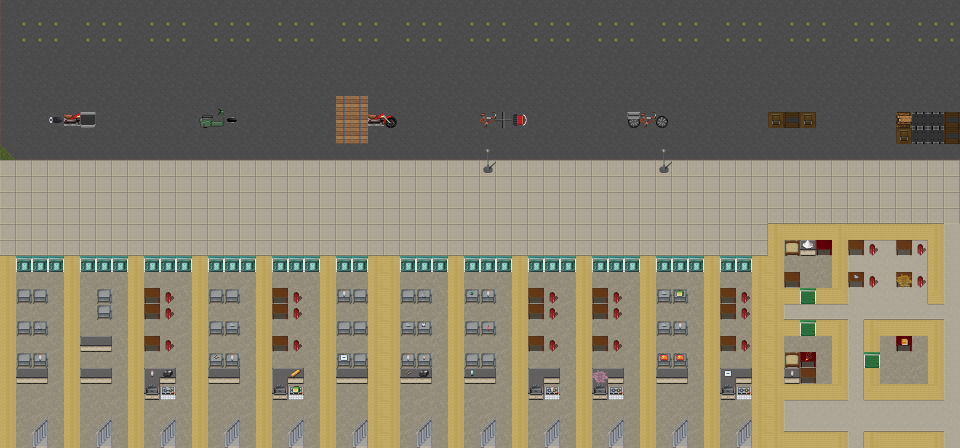
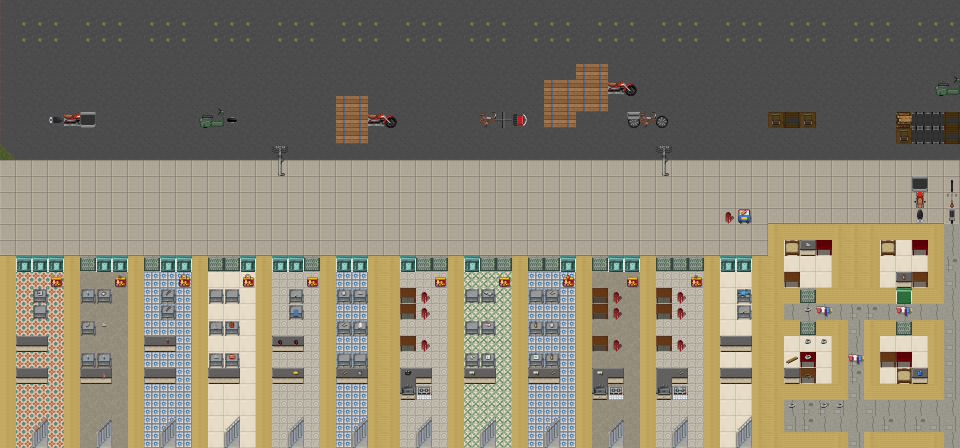
saigon: refresh sprite status, previews and plan after G18-G28
art_manifest.py: a mapgen parameter's name is not an id (it produced a
bogus 'floor' terrain), and ter_str_id / furn_str_id parameter defaults
are now listed as terrain / furniture, so the G21 gạch bông floors are
counted. Regenerated manifest and per-id status (T1: 59 drawn, 49
derived, 134 keep original, 0 to do), drawn preview sheets (icons,
terrain and furniture), scene previews with the canal, and the
summary and plan status columns.

diff --git a/tools/saigon/art_manifest.py b/tools/saigon/art_manifest.py
@@ -101,7 +101,9 @@ class Walker:
                 else:
                     yield from self.mapping_ids( v )
         elif isinstance( value, dict ):
-            for k in ( 'param', 'switch', 'fallback', 'distribution', 'cases', 'default' ):
+            # 'param' names a parameter, it is not an id: the ids come from the parameter's
+            # default (walked with the 'parameters' block) and from 'fallback'
+            for k in ( 'switch', 'fallback', 'distribution', 'cases', 'default' ):
                 if k in value:
                     yield from self.mapping_ids( value[k] if k != 'cases' else list( value[k].values() ) )
 
@@ -134,8 +136,16 @@ class Walker:
                     self.walk_mapgen_object( p[0], tier, 'palette ' + pid )
         params = obj.get( 'parameters' ) or {}
         for pv in params.values():
-            for nid in self.mapping_ids( pv.get( 'default' ) if isinstance( pv, dict ) else None ):
-                self.walk_nested( nid, tier, ref )
+            if not isinstance( pv, dict ):
+                continue
+            kind = pv.get( 'type' )
+            for nid in self.mapping_ids( pv.get( 'default' ) ):
+                if kind == 'ter_str_id':
+                    self.add( 'terrain', nid, tier, ref )
+                elif kind == 'furn_str_id':
+                    self.add( 'furniture', nid, tier, ref )
+                else:
+                    self.walk_nested( nid, tier, ref )
         for pn in obj.get( 'place_nested' ) or []:
             for k in ( 'chunks', 'else_chunks' ):
                 for nid in self.mapping_ids( pn.get( k ) ):

diff --git a/doc/saigon/art/SPRITE_REVISION_SUMMARY.md b/doc/saigon/art/SPRITE_REVISION_SUMMARY.md
@@ -1,7 +1,7 @@
 # Saigon sprite revision summary
 
 This lists the graphics that need Saigon art: what is done, what keeps the original art, and what is left.
-Status as of 2026-10-03, after units G9–G16 (see `doc/saigon/PROGRESS.md`). The per-id list is [`sprite_revision_list.csv`](sprite_revision_list.csv), regenerated by `python3 tools/saigon/art/revision_list.py`.
+Status as of 2026-10-04, after units G9–G28 and the canal (B8f) (see `doc/saigon/PROGRESS.md`). The per-id list is [`sprite_revision_list.csv`](sprite_revision_list.csv), regenerated by `python3 tools/saigon/art/revision_list.py`.
 
 ## Tilesets in use
 
@@ -18,26 +18,26 @@ Status as of 2026-10-03, after units G9–G16 (see `doc/saigon/PROGRESS.md`). Th
 
 | Priority | Category | Tile ids | Saigon art: drawn | Saigon art: derived | Keep original | **To do** |
 |---|---|---:|---:|---:|---:|---:|
-| **T1** on screen everywhere | Terrain (walls, ground, trees, shrubs) | 52 | 13 | 7 | 32 | 0 |
-| **T1** | Furniture and flowers | 22 | 4 | 7 | 11 | 0 |
+| **T1** on screen everywhere | Terrain (walls, floors, paving, gates, canal, trees, shrubs) | 65 | 26 | 7 | 32 | 0 |
+| **T1** | Furniture (street kit, shrines, jars, flowers…) | 36 | 17 | 7 | 12 | 0 |
 | **T1** | Items (starting kit, common tools) | 60 | 9 | 2 | 49 | 0 |
-| **T1** | Monsters | 13 | 0 | 5 | 8 | 0 |
+| **T1** | Monsters and animals | 17 | 0 | 7 | 10 | 0 |
 | **T1** | Vehicle parts | 38 | 7 | 0 | 31 | 0 |
-| **T1** | Map icons | 24 | 0 | 24 | 0 | 0 |
-| **T1 total** | | **209** | **33** | **45** | **131** | **0** |
-| **T2** | Saigon food, drinks, books, gear | 60 | 33 | 8 | 19 | 0 |
-| T3 | Deep dda loot | 2,365 | 0 | 0 | 2,015 | 0 (350 are a base tileset gap, below) |
-| Not in the manifest | Worn clothing on the character (6 Saigon items × male/female) | 12 | 0 | 12 | – | 0 |
+| **T1** | Map icons | 26 | 0 | 26 | 0 | 0 |
+| **T1 total** | | **242** | **59** | **49** | **134** | **0** |
+| **T2** | Saigon food, drinks, books, gear, kitchen, household, clothing | 107 | 75 | 13 | 19 | 0 |
+| T3 | Deep dda loot | 2,365 | 3 | 1 | 2,015 | 0 (346 are a base tileset gap, below) |
+| Not in the manifest | Worn clothing on the character (20 Saigon garments and gear × male/female) | 40 | 6 | 34 | – | 0 |
 | Not in the manifest | Tropical seasons: winter/autumn variants use summer art | 263 | 0 | 263 | – | 0 |
 
-**Base tileset gap:** 350 deep-loot (T3) dda items have no sprite anywhere in UltimateCataclysm, not even along their `looks_like` chain, so the vanilla game shows their ASCII glyph too. G16 found the Saigon-visible ones this way (incense on every altar, the cleaver, a tape measure, rice) and drew them. The rest are listed in the CSV as `base tileset gap`.
+**Base tileset gap:** 346 deep-loot (T3) dda items have no sprite anywhere in UltimateCataclysm, not even along their `looks_like` chain, so the vanilla game shows their ASCII glyph too. G16 found the Saigon-visible ones this way (incense on every altar, the cleaver, a tape measure, rice) and drew them. The rest are listed in the CSV as `base tileset gap`.
 
 ### Scene preview (G16)
 The render below is a real generated Saigon block, not a mock-up. The hidden test `tests/saigon_scene_dump_test.cpp` runs the game's own mapgen for a road, nhà ống, a hẻm block, a chung cư, a pagoda, a chợ and green space, then parks every Saigon vehicle on the road. `tools/saigon/art/render_scene.py` then draws the result with the installed tilesets and the engine's lookup and connection rules:
 
 ![Saigon street](scene_preview_street.png)
 
-Full block: [`scene_preview.png`](scene_preview.png). To re-run:
+Full block: [`scene_preview.png`](scene_preview.png); canal: [`scene_preview_canal.png`](scene_preview_canal.png). To re-run:
 ```
 SAIGON_SCENE_OUT=/tmp/scene.json tests/cata_test --mods=dda,saigon_2000s "[saigon_scene]"
 python3 tools/saigon/art/render_scene.py /tmp/scene.json OUT.png --scale 0.5
@@ -50,14 +50,17 @@ No T1 or T2 sprite is left to do. The work after G15 is quality, not coverage. T
 - **Motorbikes** are built from generic frame, wheel and saddle parts, with Saigon engine, pillion and tank sprites since G12.
 - **Isometric set:** a future renderer phase, out of scope here.
 
-## What was made (G6–G15)
+## What was made (G6–G28)
 | Route | Sprites | Where |
 |---|---:|---|
-| Code-drawn | 70 | `art/saigon/drawn/*.py` → `art/saigon/generated/`. Covers food, money, gear, books, papers, gas stove, squat toilet, 8 trees, bougainvillea, flowers, 7 vehicle parts (including the xích lô seat and ba gác bed), the worn nón lá, and incense, cleaver, tape measure and rice, which have no UltimateCataclysm sprite. |
-| Derived (recolour, flatten) | 300+ entries | `art/saigon/derive_recipes.json` and `derive_overmap_recipes.json`. Covers stucco and cream concrete walls, shutters, doors, floors, altar, stools, tank, sofa, bed, bin, street light, Saigon zombies and black-haired common zombies, 8 drinks, 12 worn overlays, 24 map icons and 263 tropical seasons. |
+| Code-drawn | 141 | `art/saigon/drawn/*.py` → `art/saigon/generated/` (15 programs). Covers: food, drinks, books and papers; kitchen, household, medicine, work and trade goods; clothing; the street kit (power poles, loudspeakers, tables, carts, umbrellas, signs); hẻm terrain (gates, paving, breeze blocks, laundry); shophouse interiors (gạch bông, glazed tile, shrines, water jars, TVs, hammocks, plants); the canal (embankment, tin roofs); 8 trees and wild plants; vehicle parts; worn nón lá and quang gánh |
+| Derived (recolour, flatten) | 330+ entries | `art/saigon/derive_recipes.json` and `derive_overmap_recipes.json`. Covers: stucco and cream walls, shutters, doors, floors, furniture, zombies (Saigon variants, black hair), street dog and yard chicken, drinks and condensed milk, canal water, 34 worn garments, 26 map icons, 263 tropical seasons |
 | Hand-drawn | 0 | `art/saigon/tiles/` holds any PNG you add, and it wins over both routes above |
 
-Previews: [`drawn_preview_small.png`](drawn_preview_small.png) and [`drawn_preview_trees.png`](drawn_preview_trees.png) (code-drawn), [`derived_preview.png`](derived_preview.png) and [`derived_overmap_preview.png`](derived_overmap_preview.png) (derived). To compare any set of ids, run `python3 tools/saigon/art/contact_sheet.py OUT.png <id> ...`.
+Previews:
+- code-drawn: [`drawn_preview_small.png`](drawn_preview_small.png) (icons), [`drawn_preview_world.png`](drawn_preview_world.png) (terrain and furniture), [`drawn_preview_trees.png`](drawn_preview_trees.png);
+- derived: [`derived_preview.png`](derived_preview.png), [`derived_overmap_preview.png`](derived_overmap_preview.png);
+- a real generated block: [`scene_preview.png`](scene_preview.png), [`scene_preview_street.png`](scene_preview_street.png), [`scene_preview_canal.png`](scene_preview_canal.png).
 
 ## Format rules
 

diff --git a/doc/saigon/art/SPRITE_PLAN.md b/doc/saigon/art/SPRITE_PLAN.md
@@ -187,21 +187,21 @@ For new building content: church (nhà thờ), school, ward office (UBND phườ
 Ultica_iso equivalents of everything, once renderer phase R3 starts. Out of scope for this plan.
 
 ## Schedule (small resumable units, as in `PROGRESS.md`)
-| Unit | Contents | New ids | New sprites (approx.) | Mostly |
-|---|---|---:|---:|---|
-| G18 | Icon rescale, 4 gap items, size gate, validator in `check_mod.sh` | 4 | 49 | D |
-| G19 | Flora content fixes + forest-edge species | 3–6 | 3 | content + D |
-| G20 | **Street kit:** cột điện, bàn inox + ghế set, xe bánh mì, dù, bảng hiệu, loa phường, cục nóng máy lạnh | 7 | ~14 | D/R |
-| G21 | **Shophouse interior:** gạch bông ×4, gạch men, Thần Tài altar, lu nước, võng, CRT TV, chậu kiểng | 9 | ~16 | D/R |
-| G22 | **Gates and hẻm:** cửa sắt kéo c/o, cửa cuốn open, hẻm paving, tường bông gió (multitile), dây phơi + hẻm extra | 6 | ~30 | D |
-| G23 | **Kitchen and drink items:** nồi cơm điện, bếp than tổ ong + briquettes, phin, cà phê bột, sữa đặc, bịch nylon, ly nhựa, chai nước mắm, bình gas, can nhựa | 11 | 11 | D + recipes |
-| G24 | **Household and medicine items:** quạt máy, đèn dầu, nến, Nokia, radio, mùng, chiếu, dầu gió, oresol, khẩu trang (+overlay) | 10 | 12 | D |
-| G25 | **Work gear and trade:** xà beng, quang gánh (+overlay), rổ/thau, lưới chài, vé số, thuốc lá, lượng vàng, street dishes ×5, dried goods ×3 | 16 | 18 | D |
-| G26 | **Clothing:** áo dài, áo thun, quần tây, áo khoác chống nắng, nón kết, dép lào, uniform, áo trắng (icons + 16 overlays) | 8 | 24 | D/R/H |
-| G27 | **Canal:** kênh water + embankment, ghe canopy, flood water (with B8f canal content) | 3–4 | ~20 | D |
-| G28 | **Animals:** chó ta, mèo, gà, chuột cống (+ snake and lizard) | 4–6 | ~8 | R/D/H |
-| G29 | **Map icons** for new landmarks | 11 | 11 | R/D |
-| H1 | **Hand-art pass (artist):** Saigon zombies ×5, NPC outfits, áo dài overlay, iconic street objects polish | – | ~40 | **H** |
+| Unit | Contents | New ids | New sprites (approx.) | Mostly | Status (2026-10-04) |
+|---|---|---:|---:|---|---|
+| G18 | Icon rescale, 4 gap items, size gate, validator in `check_mod.sh` | 4 | 49 | D | done |
+| G19 | Flora content fixes + forest-edge species | 3–6 | 3 | content + D | done |
+| G20 | **Street kit:** cột điện, bàn inox + ghế set, xe bánh mì, dù, bảng hiệu, loa phường, cục nóng máy lạnh | 7 | ~14 | D/R | done |
+| G21 | **Shophouse interior:** gạch bông ×4, gạch men, Thần Tài altar, lu nước, võng, CRT TV, chậu kiểng | 9 | ~16 | D/R | done |
+| G22 | **Gates and hẻm:** cửa sắt kéo c/o, cửa cuốn open, hẻm paving, tường bông gió (multitile), dây phơi + hẻm extra | 6 | ~30 | D | done |
+| G23 | **Kitchen and drink items:** nồi cơm điện, bếp than tổ ong + briquettes, phin, cà phê bột, sữa đặc, bịch nylon, ly nhựa, chai nước mắm, bình gas, can nhựa | 11 | 11 | D + recipes | done |
+| G24 | **Household and medicine items:** quạt máy, đèn dầu, nến, Nokia, radio, mùng, chiếu, dầu gió, oresol, khẩu trang (+overlay) | 10 | 12 | D | done |
+| G25 | **Work gear and trade:** xà beng, quang gánh (+overlay), rổ/thau, lưới chài, vé số, thuốc lá, lượng vàng, street dishes ×5, dried goods ×3 | 16 | 18 | D | done |
+| G26 | **Clothing:** áo dài, áo thun, quần tây, áo khoác chống nắng, nón kết, dép lào, uniform, áo trắng (icons + 16 overlays) | 8 | 24 | D/R/H | done |
+| G27 | **Canal:** kênh water + embankment, ghe canopy, flood water (with B8f canal content) | 3–4 | ~20 | D | done with B8f (canal water, embankment, tin roofs, icons); ghe canopy and flood water left |
+| G28 | **Animals:** chó ta, mèo, gà, chuột cống (+ snake and lizard) | 4–6 | ~8 | R/D/H | done |
+| G29 | **Map icons** for new landmarks | 11 | 11 | R/D | waits for the landmark buildings |
+| H1 | **Hand-art pass (artist):** Saigon zombies ×5, NPC outfits, áo dài overlay, iconic street objects polish | – | ~40 | **H** | for an artist |
 
 **Total:** about 100 new game ids and about 260 new sprites. About 80% can be code-drawn or derived (G18–G29). The hand-art pass H1 is where a pixel artist adds the most.
 

diff --git a/doc/saigon/art/manifest_summary.md b/doc/saigon/art/manifest_summary.md
@@ -1,10 +1,10 @@
 # Saigon art manifest: summary
 
-Generated by `tools/saigon/art_manifest.py`; full list in `manifest.csv` (2715 ids).
+Generated by `tools/saigon/art_manifest.py`; full list in `manifest.csv` (2714 ids).
 
 | Tier | furniture | item | monster | overmap_terrain | terrain | vehicle_part | total |
 |---|---|---|---|---|---|---|---|
-| T1 | 36 (16 mod / 20 dda) | 60 (8 mod / 52 dda) | 17 (6 mod / 11 dda) | 26 (26 mod / 0 dda) | 66 (26 mod / 40 dda) | 38 (7 mod / 31 dda) | 243 |
+| T1 | 36 (16 mod / 20 dda) | 60 (8 mod / 52 dda) | 17 (6 mod / 11 dda) | 26 (26 mod / 0 dda) | 65 (26 mod / 39 dda) | 38 (7 mod / 31 dda) | 242 |
 | T2 | 0 (0 mod / 0 dda) | 107 (87 mod / 20 dda) | 0 (0 mod / 0 dda) | 0 (0 mod / 0 dda) | 0 (0 mod / 0 dda) | 0 (0 mod / 0 dda) | 107 |
 | T3 | 0 (0 mod / 0 dda) | 2365 (0 mod / 2365 dda) | 0 (0 mod / 0 dda) | 0 (0 mod / 0 dda) | 0 (0 mod / 0 dda) | 0 (0 mod / 0 dda) | 2365 |
 
